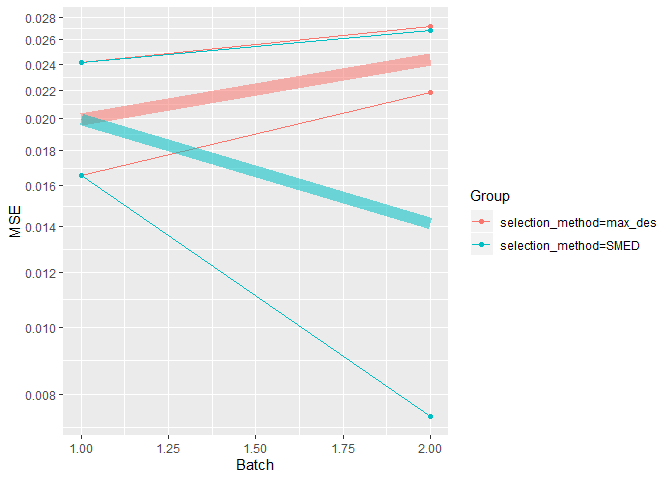
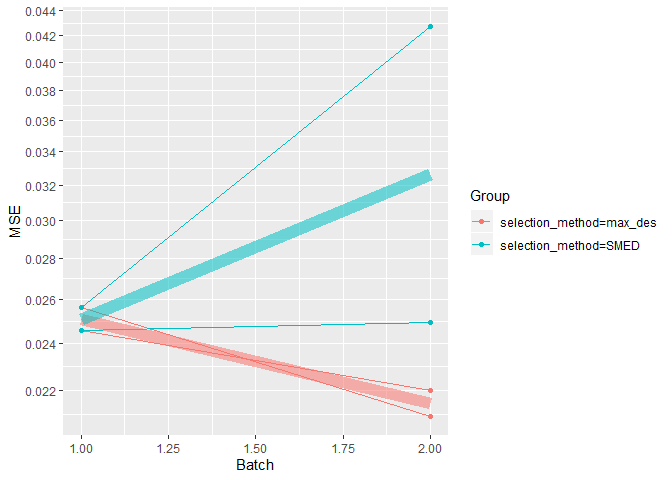
readme

diff --git a/README.md b/README.md
@@ -69,11 +69,11 @@ a <- adapt.concept2.sFFLHD.R6$new(
 ```
 
 To run batches of the experiment, use `$run()`. By default it runs one
-batch, but you can set how many. You can also tell it not to make plots
+batch, but you can set how many. You can also tell it not to make plots.
 
 ``` r
 a$run(2)
-#> Starting iteration 1 at 2020-03-08 21:51:58 
+#> Starting iteration 1 at 2020-03-10 20:29:07 
 #> no suitable  resolution IV or more  array found
 #> Warning in DoE.base::oa.design(nruns = L^2, nfactors = D + 1, nlevels = L, :
 #> resources were not sufficient for optimizing column selection
@@ -82,9 +82,48 @@ a$run(2)
 
 <img src="man/figures/README-example_exp1_2-1.png" width="100%" />
 
-    #> Starting iteration 2 at 2020-03-08 21:52:01
+    #> Starting iteration 2 at 2020-03-10 20:29:15
 
 <img src="man/figures/README-example_exp1_2-2.png" width="100%" />
+
+``` r
+a$stats
+#> $iteration
+#> [1] 1 2
+#> 
+#> $n
+#> [1] 20 23
+#> 
+#> $pvar
+#> [1] 0.00904274 0.01684534
+#> 
+#> $mse
+#> [1] 0.008527951 0.041484027
+#> 
+#> $ppu
+#> [1] 0.9523810 0.6388889
+#> 
+#> $minbatch
+#> [1] 7 8
+#> 
+#> $pamv
+#> [1] 0.000 0.155
+#> 
+#> $actual_intwerror
+#> [1] NaN NaN
+#> 
+#> $actual_intwvar
+#> [1] NaN NaN
+#> 
+#> $intwerror
+#> [1] 0.01979764 0.02077772
+#> 
+#> $intwvar
+#> [1] 0.002002648 0.003025799
+#> 
+#> $intwerror01
+#> [1] NaN NaN
+```
 
 ## Example of a comparison
 
@@ -110,30 +149,30 @@ ca1 <- compare.adaptR6$new(func=TestFunctions::gaussian1, D=2, L=3,
 #> [1] "sFFLHD"
 #> [1] "des_func_relmax" "des_func_relmax"
 ca1$run_all(noplot = T)
-#> Running 1, completed 0/4 Sun Mar 08 9:52:09 PM 2020
-#> Starting iteration 1 at 2020-03-08 21:52:09 
+#> Running 1, completed 0/4 Tue Mar 10 8:29:27 PM 2020
+#> Starting iteration 1 at 2020-03-10 20:29:27 
 #> no suitable  resolution IV or more  array found
 #> Warning in DoE.base::oa.design(nruns = L^2, nfactors = D + 1, nlevels = L, :
 #> resources were not sufficient for optimizing column selection
-#> Starting iteration 2 at 2020-03-08 21:52:10 
-#> Running 2, completed 1/4 Sun Mar 08 9:52:11 PM 2020
-#> Starting iteration 1 at 2020-03-08 21:52:11 
+#> Starting iteration 2 at 2020-03-10 20:29:28 
+#> Running 2, completed 1/4 Tue Mar 10 8:29:30 PM 2020
+#> Starting iteration 1 at 2020-03-10 20:29:30 
 #> no suitable  resolution IV or more  array found
 #> Warning in DoE.base::oa.design(nruns = L^2, nfactors = D + 1, nlevels = L, :
 #> resources were not sufficient for optimizing column selection
-#> Starting iteration 2 at 2020-03-08 21:52:12 
-#> Running 3, completed 2/4 Sun Mar 08 9:52:13 PM 2020
-#> Starting iteration 1 at 2020-03-08 21:52:13 
+#> Starting iteration 2 at 2020-03-10 20:29:31 
+#> Running 3, completed 2/4 Tue Mar 10 8:29:32 PM 2020
+#> Starting iteration 1 at 2020-03-10 20:29:32 
 #> no suitable  resolution IV or more  array found
 #> Warning in DoE.base::oa.design(nruns = L^2, nfactors = D + 1, nlevels = L, :
 #> resources were not sufficient for optimizing column selection
-#> Starting iteration 2 at 2020-03-08 21:52:13 
-#> Running 4, completed 3/4 Sun Mar 08 9:52:14 PM 2020
-#> Starting iteration 1 at 2020-03-08 21:52:14 
+#> Starting iteration 2 at 2020-03-10 20:29:32 
+#> Running 4, completed 3/4 Tue Mar 10 8:29:33 PM 2020
+#> Starting iteration 1 at 2020-03-10 20:29:33 
 #> no suitable  resolution IV or more  array found
 #> Warning in DoE.base::oa.design(nruns = L^2, nfactors = D + 1, nlevels = L, :
 #> resources were not sufficient for optimizing column selection
-#> Starting iteration 2 at 2020-03-08 21:52:15
+#> Starting iteration 2 at 2020-03-10 20:29:34
 ca1$plot()
 ```
 
